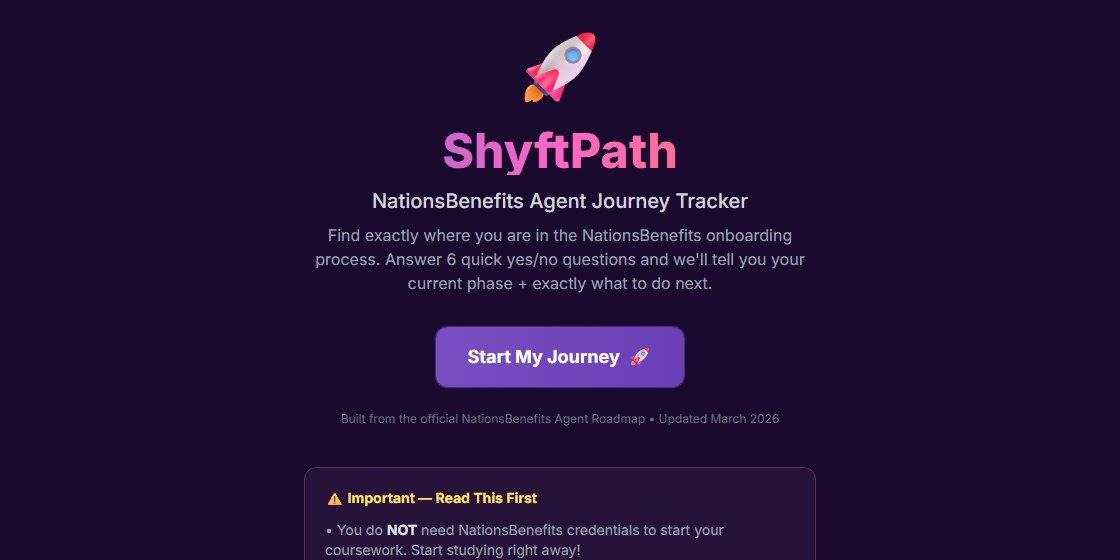
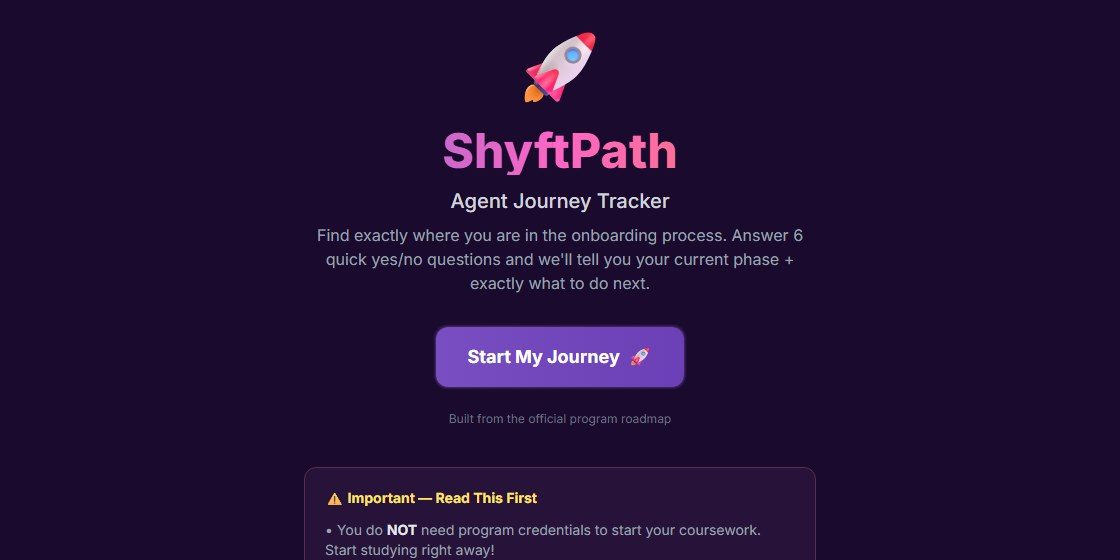
Anonymize ShyftPath slide: generic screenshot, no live link

Changed region(s): [[0.2812, 0.3339, 0.7188, 0.5161], [0.2812, 0.9411, 0.6875, 1.0], [0.3125, 0.7286, 0.6875, 0.7589]]

diff --git a/src/components/sections/Projects.tsx b/src/components/sections/Projects.tsx
@@ -30,22 +30,22 @@ const projects: Project[] = [
         icon: Rocket,
         summary: "A self-serve tracker for agents onboarding onto a call center program. Six yes/no questions place an agent in one of six onboarding phases and show exactly what to do next, so they don't have to ask.",
         tags: ["Built for Agents", "6 Questions, 6 Phases", "No Login Required"],
-        links: [{ label: "Try the Tool", href: "https://shyftpath.pages.dev/", icon: ExternalLink }],
+        links: [{ label: "Internal Tool (Demo on Request)", icon: Code2 }],
         details: [
             { heading: "1. Single-File App", body: <p>One static HTML page with Tailwind and vanilla JavaScript. No build step, so updates ship as fast as the process changes.</p> },
             {
                 heading: "2. Phase Logic", body: (
                     <ul className="list-disc pl-4 space-y-1">
-                        <li><strong>Quiz:</strong> Yes/no answers map to a phase, including sub-states like the navigation meeting.</li>
+                        <li><strong>Quiz:</strong> Yes/no answers map to a phase, including sub-states for steps that run in parallel.</li>
                         <li><strong>Results:</strong> Each phase shows next steps, what's in the agent's control vs. not, and where to get help.</li>
                     </ul>
                 )
             },
-            { heading: "3. Content", body: <p>Full checklist, FAQ, login checklist, and glossary built from the official program roadmap.</p> },
+            { heading: "3. Content", body: <p>Checklist, FAQ, and glossary built from the official program roadmap.</p> },
             { heading: "4. Deployment", body: <p>Static hosting on Cloudflare Pages.</p> }
         ],
         image: shyftpathImg,
-        alt: "ShyftPath onboarding tracker landing page"
+        alt: "ShyftPath agent journey tracker landing page"
     },
     {
         id: "netviz",
